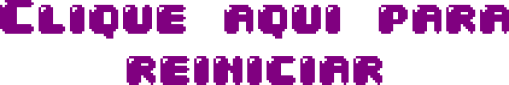
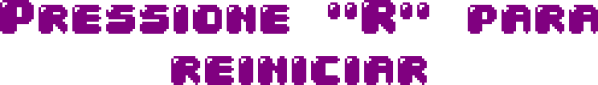
update

Changed region(s): [[0.0, 0.0, 1.0, 0.4706], [0.2358, 0.6588, 0.7662, 1.0]]

diff --git a/scenes/cena_solo.js b/scenes/cena_solo.js
@@ -38,15 +38,38 @@ class cena_solo extends Phaser.Scene {
 		// Carrega mensagens personalizadas
 		this.load.image('bemVindo', 'assets/Bemvindo.png');
 		this.load.image('gameOver', 'assets/Gameover.png');
+		this.load.image('restart', 'assets/reiniciar.png');
 		this.load.image('1pont', 'assets/1pont.png');
 		this.load.image('2pont', 'assets/2pont.png');
 		this.load.image('3pont', 'assets/3pont.png');
 		this.load.image('coment', 'assets/coment.png');
 	}
 
-	create() {		
+	create() {
 		// Cria o background
 		this.map = this.add.image(200, 325, 'bg').setScale(0.7).setOrigin(0.5, 0.5);
+
+		// Cria as mensagens
+		this.gameOver = this.add.image(200, 0, 'gameOver').setScale(0.3);
+		this.gameOver.setVisible(false);
+		this.coment = this.add.image(200,0,'coment').setScale(0.3).setVisible(false)
+		this.gameControls.restartBt = this.add
+			.image(200, 0, 'restart')
+			.setScale(0.3);
+		this.gameControls.restartBt.setVisible(false);
+		this.pont1 = this.add
+			.image(200, 0, '1pont')
+			.setScale(0.3)
+			.setVisible(false);
+		this.pont2 = this.add
+			.image(200, 0, '2pont')
+			.setScale(0.3)
+			.setVisible(false);
+		this.pont3 = this.add
+			.image(200, 0, '3pont')
+			.setScale(0.3)
+			.setVisible(false);
+		this.list = [this.pont1, this.pont2, this.pont3];
 
 		// Adiciona o efeito do fogo no código e esconde ele
 		this.fogo.obj = this.add.sprite(0, 0, 'fogo').setScale(0.3);
@@ -86,8 +109,8 @@ class cena_solo extends Phaser.Scene {
 		this.nuvem.setVisible(true);
 
 		// Permite que acessemos inputs do teclado
-		this.cursors = this.input.keyboard.createCursorKeys();
-		this.pointer = this.input.activePointer;
+		this.cursors = this.input.keyboard.createCursorKeys(); // Inputs de movimentação
+		this.keyR = this.input.keyboard.addKey(Phaser.Input.Keyboard.KeyCodes.R) // Input da tecla "R"
 
 		// Cria o placar do jogo
 		this.placar = this.add.text(
@@ -128,6 +151,11 @@ class cena_solo extends Phaser.Scene {
 			this.nuvem,
 			function () {
 				this.nuvem.setVisible(false);
+				this.coment.setPosition(this.player.obj.x, this.player.obj.y + 15);
+				this.coment.setVisible(true);
+				setTimeout(() => {
+					this.coment.destroy();
+				}, 1000);
 			},
 			null,
 			this
@@ -179,7 +207,6 @@ class cena_solo extends Phaser.Scene {
 
 		// Controla a movimentação do nuvem
 		if (this.nuvem.x <= 100) {
-			this.nuvem.setFlip(false, false);
 			this.nuvem.ida = true;
 		}
 
@@ -189,7 +216,6 @@ class cena_solo extends Phaser.Scene {
 		}
 
 		if (this.nuvem.x >= 700) {
-			this.nuvem.setFlip(true, false);
 			this.nuvem.ida = false;
 		}
 
@@ -213,8 +239,52 @@ class cena_solo extends Phaser.Scene {
 		// Determina posição do foguinho
 		this.fogo.obj.setPosition(this.player.obj.x, this.player.obj.y + 17);
 
+		// Determina pontuação e desencadeia uma reação
+		if (this.player.obj.y < this.bird.y && this.gameControls.score == 0) {
+			this.gameControls.score += 1;
+			this.pont1.setPosition(this.player.obj.x, this.player.obj.y + 15);
+			this.list[this.gameControls.score-1].setVisible(true);
+			setTimeout(() => {
+				this.pont1.destroy();
+			}, 1000);
+		}
+
+		if (this.player.obj.y < this.bird2.y && this.gameControls.score == 1) {
+			this.gameControls.score += 1;
+			this.pont2.setPosition(this.player.obj.x, this.player.obj.y + 15);
+			this.list[this.gameControls.score-1].setVisible(true);
+			setTimeout(() => {
+				this.pont2.destroy();
+			}, 1000);
+		}
+
+		if (this.player.obj.y < this.nuvem.y && this.gameControls.score == 2 && this.nuvem.visible) {
+			this.gameControls.score += 1;
+			this.pont3.setPosition(this.player.obj.x, this.player.obj.y + 15);
+			this.list[this.gameControls.score-1].setVisible(true);
+			setTimeout(() => {
+				this.pont3.destroy();
+			}, 1000);
+		}
+
 		if (this.player.obj.y <= 18) {
 			this.scene.start('cena_espaço', { score: this.gameControls.score });
+		}
+
+		if (this.gameControls.over) {
+			this.player.obj.destroy();
+			this.fogo.obj.destroy();
+			this.gameOver.setPosition(this.player.obj.x, this.player.obj.y);
+			this.gameOver.setVisible(true);
+			this.gameControls.restartBt.setPosition(
+				this.player.obj.x,
+				this.player.obj.y + 30
+			);
+			this.gameControls.restartBt.setVisible(true);
+
+			if (this.keyR.isDown) {
+				this.scene.restart()
+			}
 		}
 	}
 

diff --git a/scenes/cena_espaço.js b/scenes/cena_espaço.js
@@ -43,8 +43,8 @@ class cena_espaço extends Phaser.Scene {
 	}
 
 	create(data) {
-        // recupera os dados da cena anterior
-        this.gameControls.score = data;
+		// recupera os dados da cena anterior
+		this.gameControls.score = data;
 
 		// Muda a gravidade do mapa
 		this.physics.world.gravity.y = 5;
@@ -58,8 +58,28 @@ class cena_espaço extends Phaser.Scene {
 		// Cria as mensagens
 		this.gameOver = this.add.image(200, 0, 'gameOver').setScale(0.3);
 		this.gameOver.setVisible(false);
-		this.gameControls.restartBt = this.add.image(200, 0, 'restart').setScale(0.3);
+		this.gameControls.restartBt = this.add
+			.image(200, 0, 'restart')
+			.setScale(0.3);
 		this.gameControls.restartBt.setVisible(false);
+		this.pont3 = this.add
+			.image(200, 0, '3pont')
+			.setScale(0.3)
+			.setVisible(false);
+		this.pont4 = this.add
+			.image(200, 0, '4pont')
+			.setScale(0.3)
+			.setVisible(false);
+		this.pont5 = this.add
+			.image(200, 0, '5pont')
+			.setScale(0.3)
+			.setVisible(false);
+		this.pont6 = this.add
+			.image(200, 0, '6pont')
+			.setScale(0.3)
+			.setVisible(false);
+
+		this.list = [this.pont3, this.pont4, this.pont5, this.pont6];
 
 		// Adiciona o efeito do fogo no código e esconde ele
 		this.fogo.obj = this.add.sprite(0, 0, 'fogo').setScale(0.3);
@@ -92,7 +112,7 @@ class cena_espaço extends Phaser.Scene {
 
 		// Permite que acessemos inputs do teclado
 		this.cursors = this.input.keyboard.createCursorKeys();
-        this.pointer = this.input.activePointer;
+		this.keyR = this.input.keyboard.addKey(Phaser.Input.Keyboard.KeyCodes.R); // Input da tecla "R"
 
 		this.physics.add.existing(this.nave);
 		this.physics.add.existing(this.nave2);
@@ -129,10 +149,10 @@ class cena_espaço extends Phaser.Scene {
 			this
 		);
 
-        // this.gameControls.restartBt.on('pointerdown', () => {
-        //     console.log("Foi")
-        //     this.scene.restart('cena_solo');
-        // });
+		// this.gameControls.restartBt.on('pointerdown', () => {
+		//     console.log("Foi")
+		//     this.scene.restart('cena_solo');
+		// });
 	}
 
 	update() {
@@ -210,17 +230,56 @@ class cena_espaço extends Phaser.Scene {
 		} else {
 			this.semFoguinho(); // Remove o efeito de foguinho no foguete
 		}
+        console.log(this.gameControls.score)
+		// Determina pontuação e desencadeia uma reação
+		if (this.player.obj.y < this.nave.y && this.gameControls.score >= 2) {
+			this.gameControls.score += 1;
+			this.pont1.setPosition(this.player.obj.x, this.player.obj.y + 15);
+			this.list[this.gameControls.score - 3].setVisible(true);
+			setTimeout(() => {
+				this.list[this.gameControls.score - 3].setVisible(false);
+			}, 1000);
+		} 
+
+		if (this.player.obj.y < this.nave2.y && this.gameControls.score >= 3) {
+			this.gameControls.score += 1;
+			this.nave2.setPosition(this.player.obj.x, this.player.obj.y + 15);
+			this.list[this.gameControls.score - 1].setVisible(true);
+			setTimeout(() => {
+				this.pont2.destroy();
+			}, 1000);
+		}
+
+		if (
+			this.player.obj.y < this.nuvem.y &&
+			this.gameControls.score == 2 &&
+			this.nuvem.visible
+		) {
+			this.gameControls.score += 1;
+			this.pont3.setPosition(this.player.obj.x, this.player.obj.y + 15);
+			this.list[this.gameControls.score - 1].setVisible(true);
+			setTimeout(() => {
+				this.list[this.gameControls.score - 1].destroy();
+			}, 1000);
+		}
 
 		// Determina posição do foguinho
 		this.fogo.obj.setPosition(this.player.obj.x, this.player.obj.y + 17);
 
 		if (this.gameControls.over) {
-            this.player.obj.destroy();
+			this.player.obj.destroy();
 			this.fogo.obj.destroy();
 			this.gameOver.setPosition(this.player.obj.x, this.player.obj.y);
 			this.gameOver.setVisible(true);
-			this.gameControls.restartBt.setPosition(this.player.obj.x, this.player.obj.y + 30);
+			this.gameControls.restartBt.setPosition(
+				this.player.obj.x,
+				this.player.obj.y + 30
+			);
 			this.gameControls.restartBt.setVisible(true);
+
+			if (this.keyR.isDown) {
+				this.scene.start('cena_solo');
+			}
 		}
 	}
 

diff --git a/index.html b/index.html
@@ -8,19 +8,21 @@
     <script src="scenes/cena_solo.js"></script>
     <script src="scenes/cena_espaço.js"></script>
 
-    
+
 
 </head>
 
 <body>
-
     <div id="game"></div>
 
     <script type="text/javascript">
+        do {
+            var resultado = window.confirm("Você deseja ver o jogo do foguete?")
+        } while (!resultado)
         /*Global variables definition*/
         const config = {
             type: Phaser.AUTO,
-        
+
             width: 400, //largura da tela do jogo
             height: 650, //altura da tela do jogo
             physics: {
